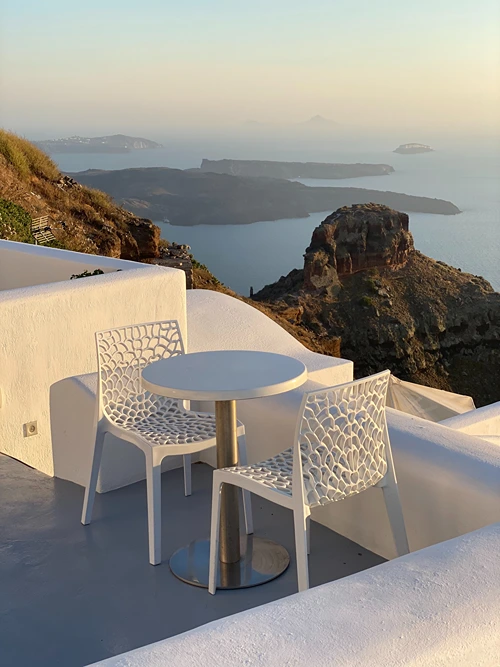
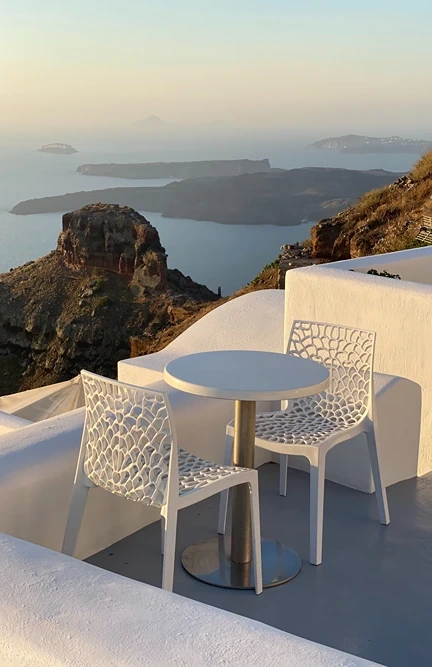
correct images' sizes

diff --git a/pages/products.html b/pages/products.html
@@ -134,6 +134,7 @@
       <p class="products__text">8 results for outdoor tables</p>
 
       <div class="products__container">
+        <!--CARD ONE -->
         <div class="product-card">
           <img
             src="../assets/products/product-1.webp"
@@ -143,7 +144,147 @@
           <div class="product-card__content">
             <div class="product-card__text">
               <p>Beautiful Boat Wooden Table</p>
-              <p>$250.20</p>
+              <p>$ 250.20</p>
+            </div>
+            <div class="product-card__btn">
+              <button class="btn__details btn__details--small">
+                See details <i class="fa-solid fa-bag-shopping"></i>
+              </button>
+            </div>
+          </div>
+        </div>
+
+        <!-- CARD TWO -->
+        <div class="product-card">
+          <img
+            src="../assets/products/product-4.webp"
+            alt="beautiful outdoor wooden table"
+          />
+
+          <div class="product-card__content">
+            <div class="product-card__text">
+              <p>Long Pine Wood Table</p>
+              <p>$ 242.72</p>
+            </div>
+            <div class="product-card__btn">
+              <button class="btn__details btn__details--small">
+                See details <i class="fa-solid fa-bag-shopping"></i>
+              </button>
+            </div>
+          </div>
+        </div>
+
+        <!-- CARD THREE -->
+        <div class="product-card">
+          <img
+            src="../assets/products/product-11.webp"
+            alt="beautiful outdoor wooden table"
+          />
+
+          <div class="product-card__content">
+            <div class="product-card__text">
+              <p>Rectangle Oak Wood Table</p>
+              <p>$ 481.00</p>
+            </div>
+            <div class="product-card__btn">
+              <button class="btn__details btn__details--small">
+                See details <i class="fa-solid fa-bag-shopping"></i>
+              </button>
+            </div>
+          </div>
+        </div>
+
+        <!-- CARD FOUR -->
+        <div class="product-card">
+          <img
+            src="../assets/products/product-13.webp"
+            alt="Circular Iron Table"
+          />
+
+          <div class="product-card__content">
+            <div class="product-card__text">
+              <p>Circular Iron Table</p>
+              <p>$ 422.59</p>
+            </div>
+            <div class="product-card__btn">
+              <button class="btn__details btn__details--small">
+                See details <i class="fa-solid fa-bag-shopping"></i>
+              </button>
+            </div>
+          </div>
+        </div>
+
+        <!-- CARD FIVE -->
+        <div class="product-card">
+          <img
+            src="../assets/products/product-14.webp"
+            alt="Rectangular Iron Table"
+          />
+
+          <div class="product-card__content">
+            <div class="product-card__text">
+              <p>Rectangular Iron Table</p>
+              <p>$ 384.99</p>
+            </div>
+            <div class="product-card__btn">
+              <button class="btn__details btn__details--small">
+                See details <i class="fa-solid fa-bag-shopping"></i>
+              </button>
+            </div>
+          </div>
+        </div>
+
+        <!-- CARD SIX -->
+        <div class="product-card">
+          <img
+            src="../assets/products/product-12.webp"
+            alt="Circular Marble Table"
+          />
+
+          <div class="product-card__content">
+            <div class="product-card__text">
+              <p>Modern Circular Marble...</p>
+              <p>$ 992.00</p>
+            </div>
+            <div class="product-card__btn">
+              <button class="btn__details btn__details--small">
+                See details <i class="fa-solid fa-bag-shopping"></i>
+              </button>
+            </div>
+          </div>
+        </div>
+
+        <!-- CARD SEVEN -->
+        <div class="product-card">
+          <img
+            src="../assets/products/product-9.webp"
+            alt="Solid Circular Oak Table"
+          />
+
+          <div class="product-card__content">
+            <div class="product-card__text">
+              <p>Solid Circular Oak Table</p>
+              <p>$ 624.99</p>
+            </div>
+            <div class="product-card__btn">
+              <button class="btn__details btn__details--small">
+                See details <i class="fa-solid fa-bag-shopping"></i>
+              </button>
+            </div>
+          </div>
+        </div>
+
+        <!-- CARD SIX -->
+        <div class="product-card">
+          <img
+            src="../assets/products/product-6.webp"
+            alt="Rectangular Maple Wooden Table"
+          />
+
+          <div class="product-card__content">
+            <div class="product-card__text">
+              <p>Rectangular Maple Wood</p>
+              <p>$ 392.00</p>
             </div>
             <div class="product-card__btn">
               <button class="btn__details btn__details--small">

diff --git a/css/styles.css b/css/styles.css
@@ -131,7 +131,7 @@ a {
     "_ path path __ __"
     "_ sidebar ____ section ___"
     "footer footer footer footer footer";
-  grid-template-columns: 5% 28rem 8% auto 5%;
+  grid-template-columns: 5% 28rem 8% auto 10%;
 }
 
 .products__grid header {
@@ -762,11 +762,20 @@ a {
 }
 
 .products {
+  margin-bottom: 6rem;
   text-align: end;
+}
+
+.products__text {
+  font-size: 1.2rem;
+  color: rgb(var(--color-grey));
 }
 
 .products__container {
   display: flex;
+  gap: 6.35rem;
+  flex-wrap: wrap;
+  margin: 2rem 0;
 }
 
 .product-card {
